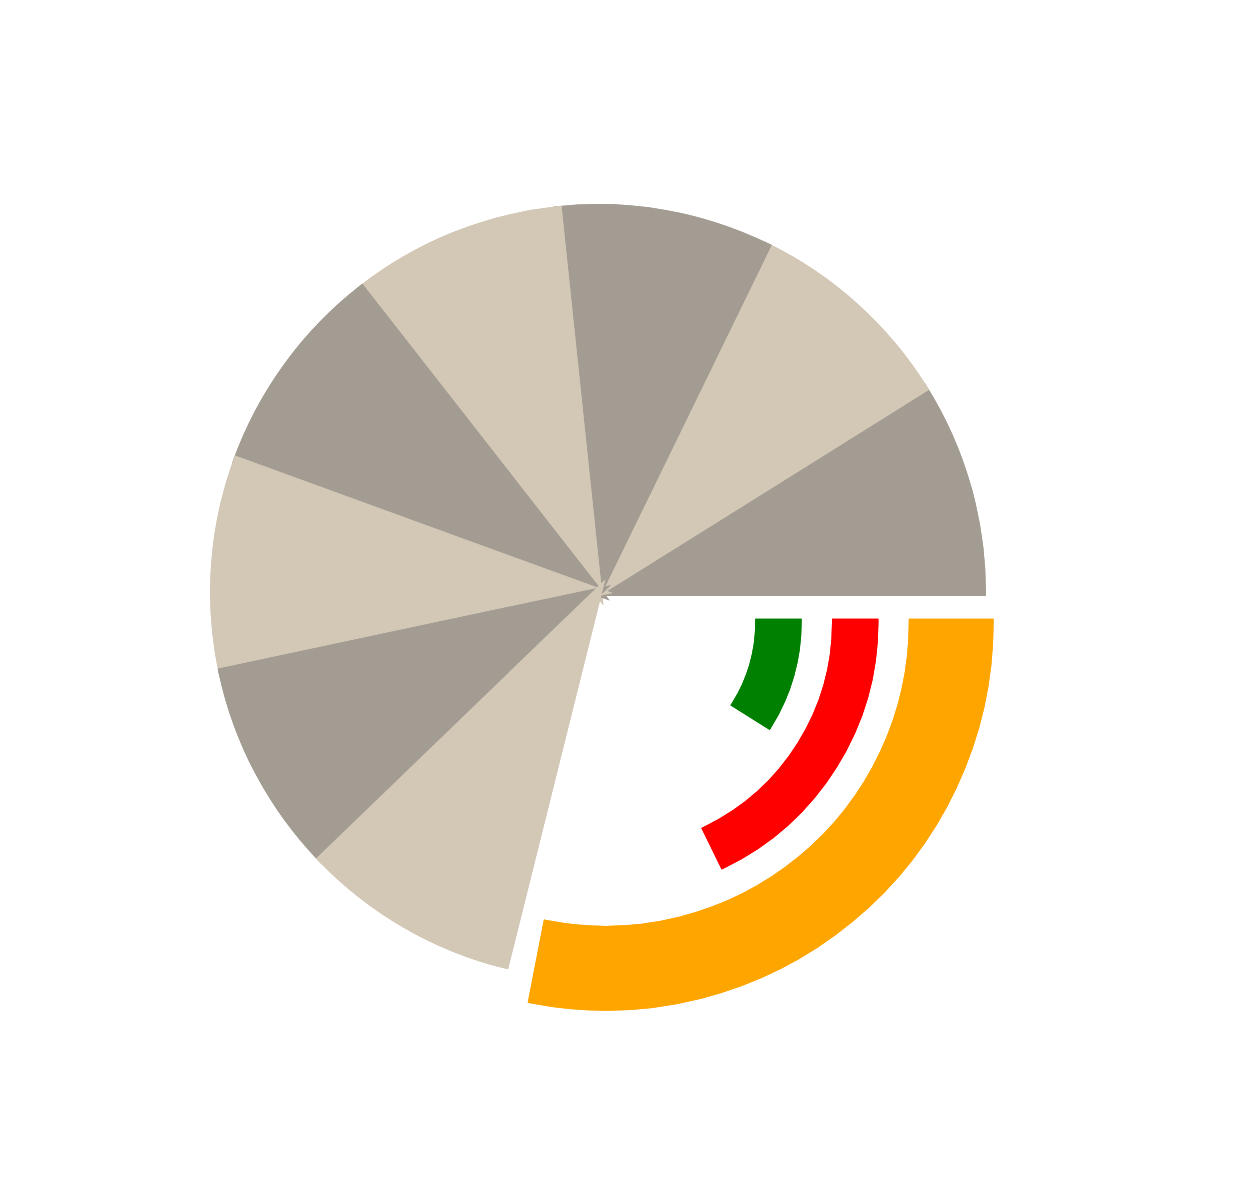
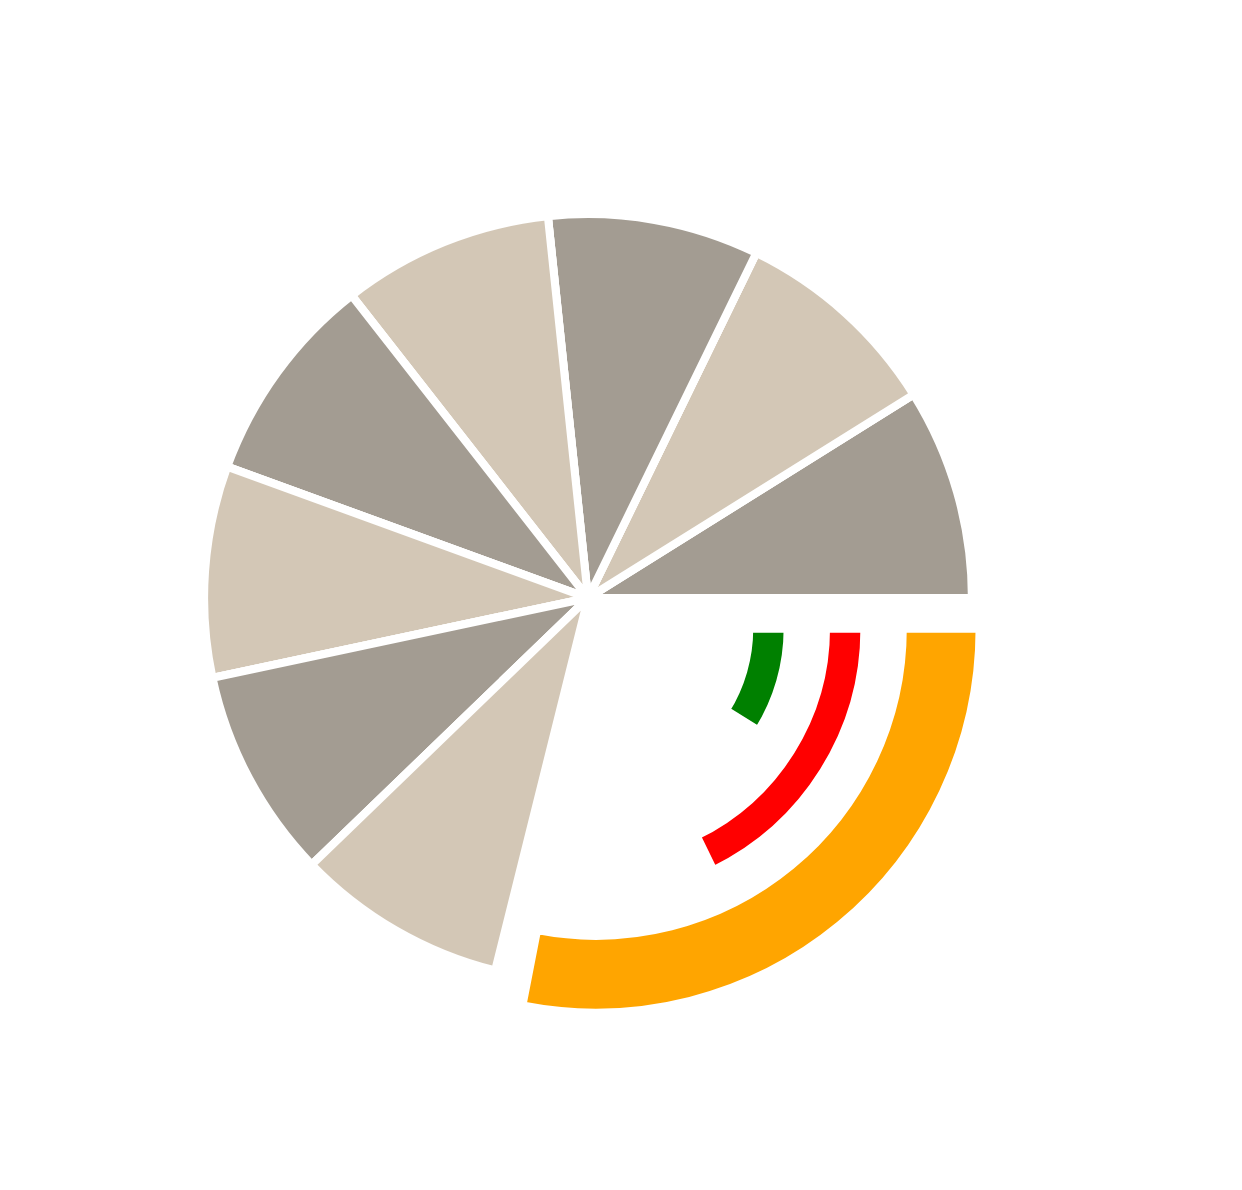
readme complete

diff --git a/unit_test.py b/unit_test.py
@@ -124,17 +124,17 @@ def unit_test():
 	# WEDGE #
 	def wedge(f):
 
-		f.addWedge((0,0), r=10, theta1=0, theta2=32, mplprops={'color':'#a39c92', 'lw':1})
-		f.addWedge((0,0), r=10, theta1=32, theta2=64, mplprops={'color':'#d3c7b6', 'lw':1})
-		f.addWedge((0,0), r=10, theta1=64, theta2=96, mplprops={'color':'#a39c92', 'lw':1})
- 		f.addWedge((0,0), r=10, theta1=96, theta2=128, mplprops={'color':'#d3c7b6', 'lw':1})
- 		f.addWedge((0,0), r=10, theta1=128, theta2=160, mplprops={'color':'#a39c92','lw':1})
-		f.addWedge((0,0), r=10, theta1=160, theta2=192, mplprops={'color':'#d3c7b6', 'lw':1})
-		f.addWedge((0,0), r=10, theta1=192, theta2=224, mplprops={'color':'#a39c92', 'lw':1})
-		f.addWedge((0,0), r=10, theta1=224, theta2=256, mplprops={'color':'#d3c7b6', 'lw':1})
-		f.addWedge((0.2,-0.8), r=10, theta1=259, theta2=360, width=2, mplprops={'color':'orange', 'lw':1})
-		f.addWedge((0.2,-0.8), r=7, theta1=296, theta2=360, width=1, mplprops={'color':'red', 'lw':1})
-		f.addWedge((0.2,-0.8), r=5, theta1=328, theta2=360, width=1, mplprops={'color':'green', 'lw':1})
+		f.addWedge((0,0), r=10, theta1=0, theta2=32, mplprops={'color':'#a39c92', 'lw':1, 'ec':'w'})
+		f.addWedge((0,0), r=10, theta1=32, theta2=64, mplprops={'color':'#d3c7b6', 'lw':1, 'ec':'w'})
+		f.addWedge((0,0), r=10, theta1=64, theta2=96, mplprops={'color':'#a39c92', 'lw':1, 'ec':'w'})
+ 		f.addWedge((0,0), r=10, theta1=96, theta2=128, mplprops={'color':'#d3c7b6', 'lw':1, 'ec':'w'})
+ 		f.addWedge((0,0), r=10, theta1=128, theta2=160, mplprops={'color':'#a39c92','lw':1, 'ec':'w'})
+		f.addWedge((0,0), r=10, theta1=160, theta2=192, mplprops={'color':'#d3c7b6', 'lw':1, 'ec':'w'})
+		f.addWedge((0,0), r=10, theta1=192, theta2=224, mplprops={'color':'#a39c92', 'lw':1, 'ec':'w'})
+		f.addWedge((0,0), r=10, theta1=224, theta2=256, mplprops={'color':'#d3c7b6', 'lw':1, 'ec':'w'})
+		f.addWedge((0.2,-0.8), r=10, theta1=259, theta2=360, width=2, mplprops={'color':'orange', 'lw':1, 'ec':'w'})
+		f.addWedge((0.2,-0.8), r=7, theta1=296, theta2=360, width=1, mplprops={'color':'red', 'lw':1, 'ec':'w'})
+		f.addWedge((0.2,-0.8), r=5, theta1=328, theta2=360, width=1, mplprops={'color':'green', 'lw':1, 'ec':'w'})
 
 
 	# WRITE #
@@ -157,7 +157,7 @@ def unit_test():
 	###point(f)
 	###text(f)
 	###arrow(f)
-	###wedge(f)
+	wedge(f)
 	#line = f.addLine([2,4], [6,8], lw=2, mplprops={'color':'r'})
 	###axis(f)
 

diff --git a/README.md b/README.md
@@ -27,7 +27,7 @@ The `Figures` lets you add shapes and modify the axes.
 		poly.labelVertices(['a', 'b', 'c', 'd', 'e'])
 		poly.labelAngles([r'\alpha', r'\beta', r'\gamma', r'\delta', r'\epsilon'])
 
-	f.__writeFile__('/Users/<USER>/polygon.png')
+	  f.__writeFile__('/Users/<USER>/polygon.png')
 
 ![Regular Polygon](images/polygon.png "Regular Polygon")
 
@@ -38,7 +38,7 @@ The `Figures` lets you add shapes and modify the axes.
     f = figures.Figures([[-10,25],[-10,25]], bgcolor='w')
 		circ = f.addCircle(xy=(7,10), label="r", radius=10, fc='#f4ab7a', lw=5)
 
-	f.__writeFile__('/Users/<USER>/circle.png')
+	  f.__writeFile__('/Users/<USER>/circle.png')
 
 ![Circle](images/circle.png "Circle")
 
@@ -50,7 +50,7 @@ The `Figures` lets you add shapes and modify the axes.
     ell = f.addEllipse(xy=[7,10], r=(9,12), angle=20.0)
   	ell.ellipseLabels(xlabel='x', ylabel='y', isRadius=False)
 
-  f.__writeFile__('/Users/<USER>/ellipse.png')
+    f.__writeFile__('/Users/<USER>/ellipse.png')
 
 ![Regular Polygon](images/ellipse.png "Ellipse")
 
@@ -61,7 +61,7 @@ The `Figures` lets you add shapes and modify the axes.
     f = figures.Figures([[-10,10],[-5,5]], bgcolor='w')
     f.format_axis(xyrange=[[-10,10], [-10,10]], grid=True, tick_interval=.25, tick_label_interval=1, color='blue')
 
-  f.__writeFile__('/Users/<USER>/axis.png')
+    f.__writeFile__('/Users/<USER>/axis.png')
 
 ![Axis](images/axis.png "Axis")
 
@@ -88,7 +88,7 @@ The `Figures` lets you add shapes and modify the axes.
 			lw=2
 		)
 
-	f.__writeFile__('/Users/<USER>/func.png')
+	   f.__writeFile__('/Users/<USER>/func.png')
 
 ![Function](images/func.png "Function")
 
